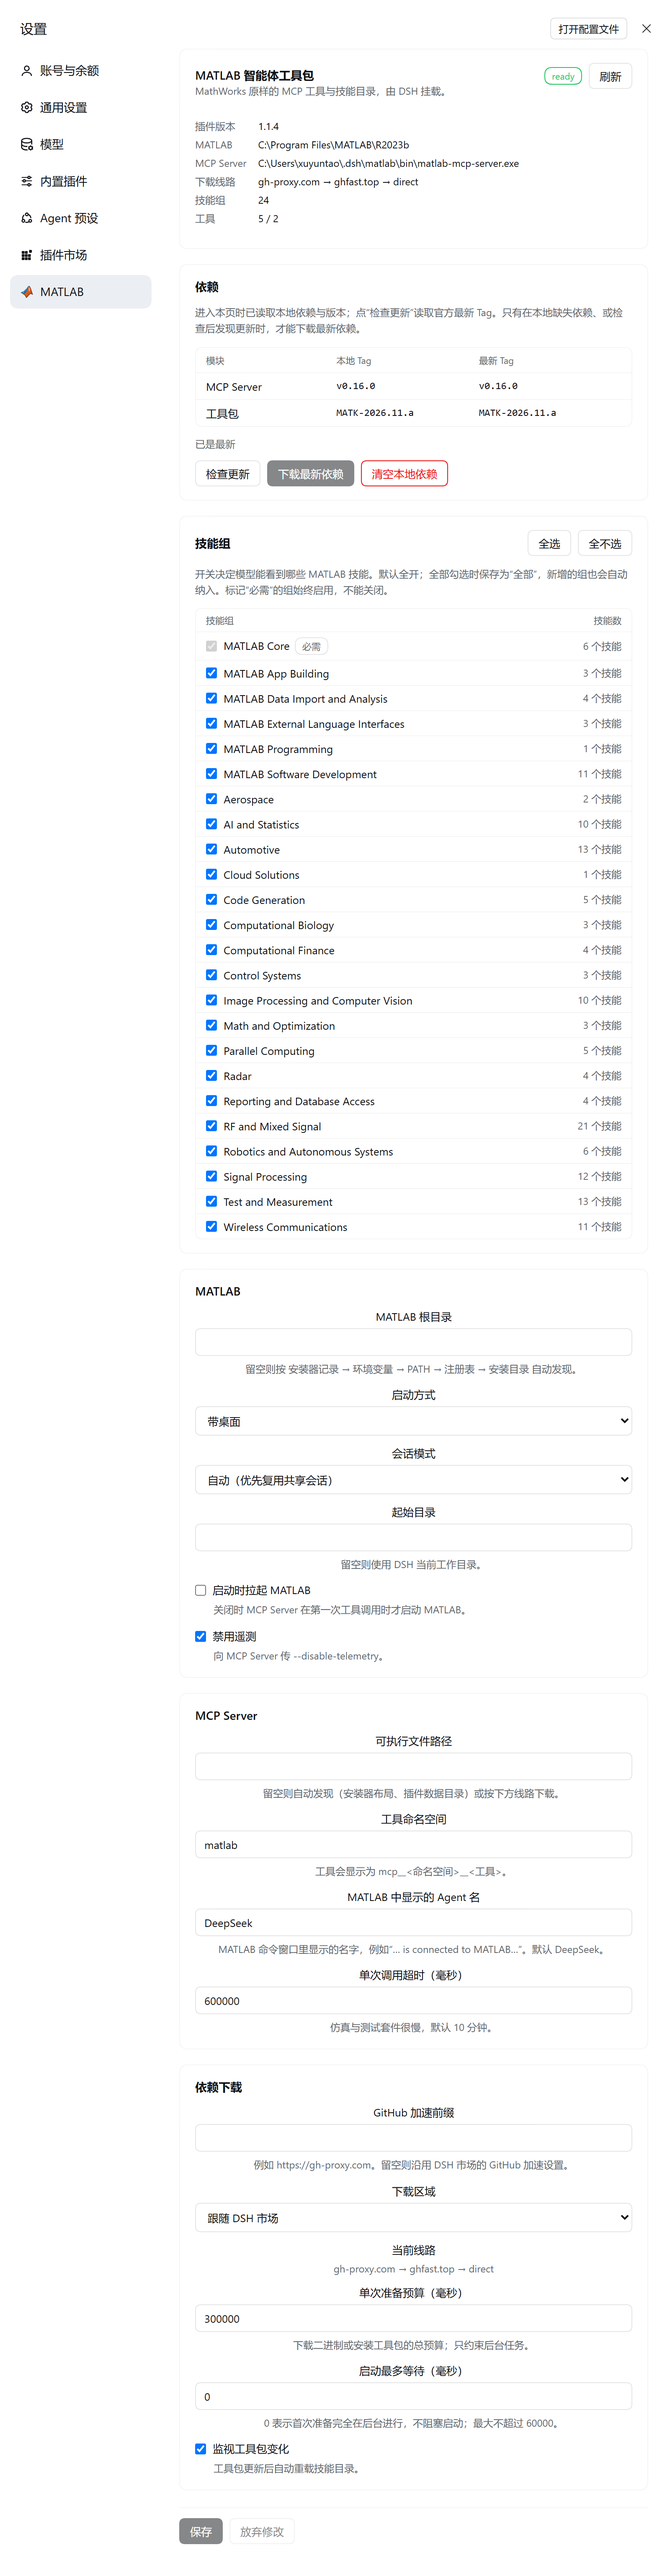
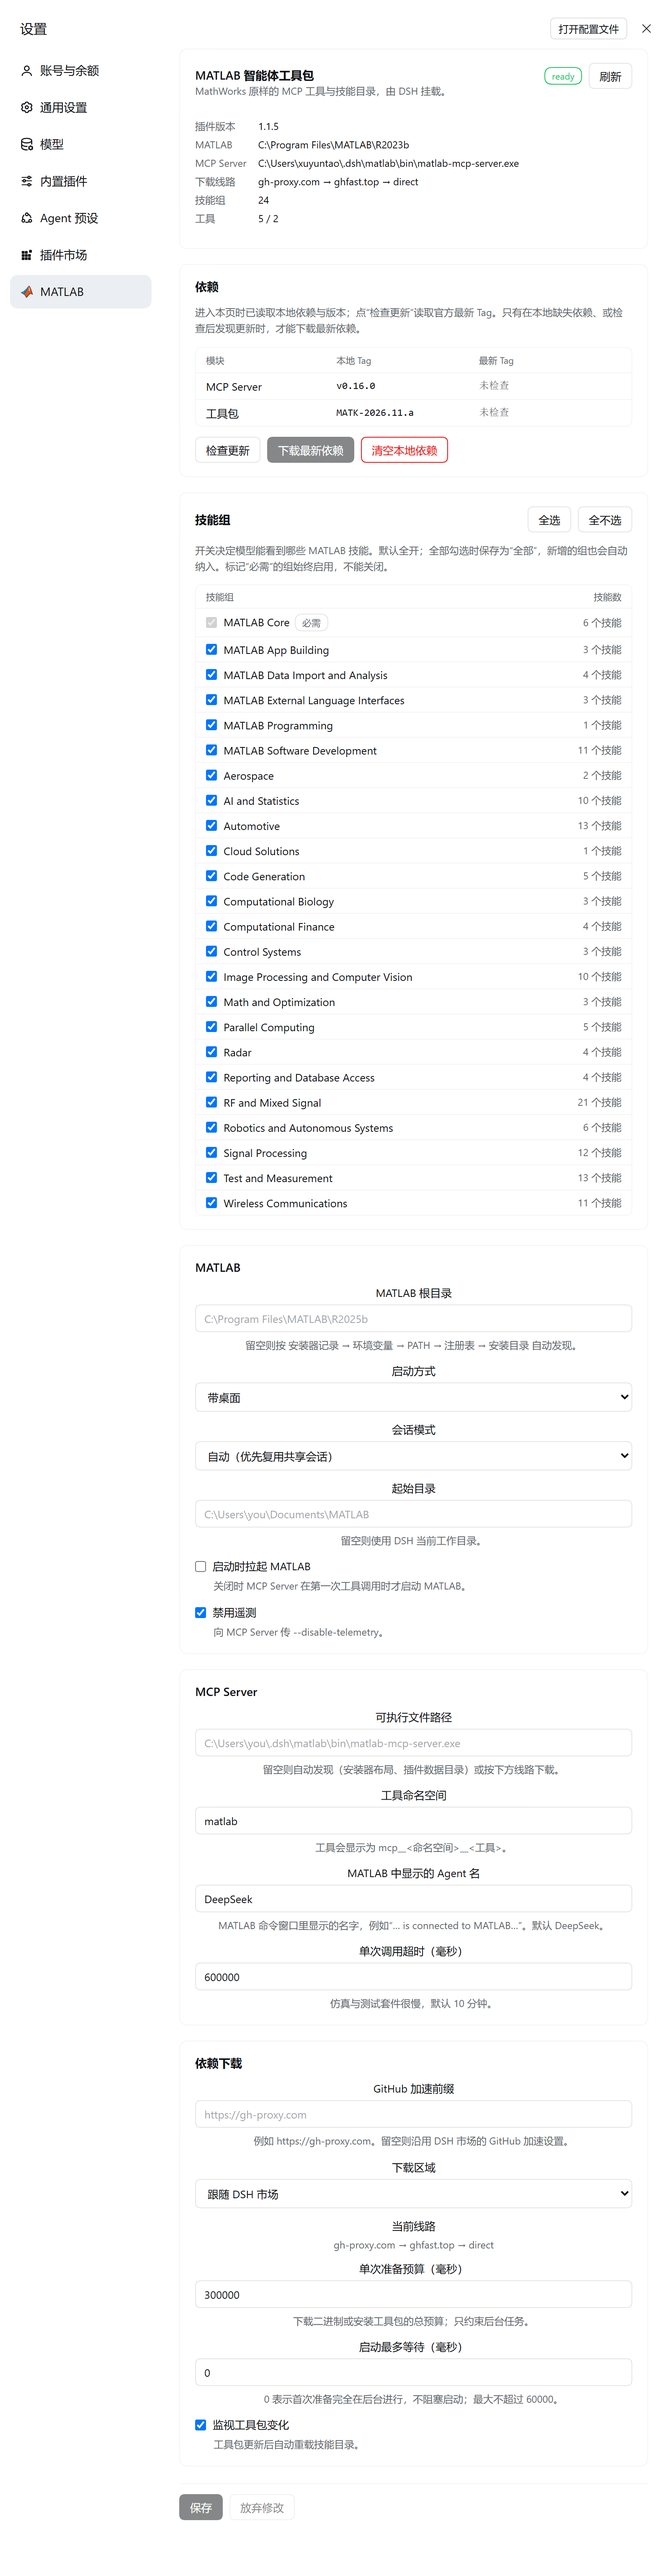
feat: show an example in every empty input
Each text and number box now carries a light placeholder with the shape of
the value it expects (a MATLAB install path, a working folder, the server
executable, the MCP namespace, the agent name, a call timeout, a GitHub
acceleration prefix, the transfer budget and the startup wait). Empty boxes
otherwise said nothing about what belonged in them.

Version 1.1.5; the screenshot is retaken so the store image shows them.

diff --git a/client/client.js b/client/client.js
@@ -254,6 +254,26 @@ window.__ModuleLoader__.load({
     }
 
     /**
+     * What an empty box expects.
+     *
+     * These are examples, not defaults: they are shown in the field's light
+     * placeholder colour and never written into the configuration. Paths and
+     * identifiers read the same in every language, so they live together here
+     * instead of being duplicated in both dictionaries.
+     */
+    const PLACEHOLDERS = {
+      matlabRoot: 'C:\\Program Files\\MATLAB\\R2025b',
+      initialWorkingFolder: 'C:\\Users\\you\\Documents\\MATLAB',
+      mcpServerPath: 'C:\\Users\\you\\.dsh\\matlab\\bin\\matlab-mcp-server.exe',
+      serverName: 'matlab',
+      agentName: 'DeepSeek',
+      toolCallTimeoutMs: '600000',
+      githubProxy: 'https://gh-proxy.com',
+      provisionTimeoutMs: '300000',
+      provisionWaitMs: '0',
+    }
+
+    /**
      * Resolve one route against the page's base URL.
      *
      * The Web GUI can be mounted under a prefix, so a leading slash would miss
@@ -303,6 +323,8 @@ window.__ModuleLoader__.load({
 .mp-row-block{display:flex;flex-direction:column;gap:6px}
 .mp-label{font-size:13px;color:var(--dsw-alias-label-primary)}
 .mp-input,.mp-select{width:100%;box-sizing:border-box;font:inherit;font-size:13px;padding:7px 10px;border-radius:8px;border:1px solid var(--dsw-alias-border-l2);background:var(--dsw-alias-bg-base);color:var(--dsw-alias-label-primary)}
+.mp-input::placeholder{color:var(--dsw-alias-label-tertiary,var(--dsw-alias-label-secondary));opacity:.72}
+.mp-input:focus::placeholder{opacity:.5}
 .mp-input:focus,.mp-select:focus{outline:2px solid var(--dsw-alias-brand-primary);outline-offset:1px}
 .mp-toggle{display:flex;align-items:flex-start;gap:8px;font-size:13px}
 .mp-toggle input{margin:3px 0 0}
@@ -392,12 +414,13 @@ window.__ModuleLoader__.load({
       })
     }
 
-    function NumberInput({ value, onChange, min }) {
+    function NumberInput({ value, onChange, min, placeholder }) {
       return h('input', {
         className: 'mp-input',
         type: 'number',
         min,
         value: String(value),
+        placeholder,
         onChange: event => onChange(event.target.value),
       })
     }
@@ -559,6 +582,7 @@ window.__ModuleLoader__.load({
           h(TextInput, {
             value: draft.matlabRoot,
             disabled: !state.editable,
+            placeholder: PLACEHOLDERS.matlabRoot,
             onChange: value => onDraft({ ...draft, matlabRoot: value }),
           })),
         h(Field, { label: t('displayMode') },
@@ -583,6 +607,7 @@ window.__ModuleLoader__.load({
         h(Field, { label: t('initialWorkingFolder'), hint: t('initialWorkingFolderHint') },
           h(TextInput, {
             value: draft.initialWorkingFolder,
+            placeholder: PLACEHOLDERS.initialWorkingFolder,
             onChange: value => onDraft({ ...draft, initialWorkingFolder: value }),
           })),
         h(Toggle, {
@@ -605,22 +630,26 @@ window.__ModuleLoader__.load({
         h(Field, { label: t('mcpServerPath'), hint: t('mcpServerPathHint') },
           h(TextInput, {
             value: draft.mcpServerPath,
+            placeholder: PLACEHOLDERS.mcpServerPath,
             onChange: value => onDraft({ ...draft, mcpServerPath: value }),
           })),
         h(Field, { label: t('serverName'), hint: t('serverNameHint') },
           h(TextInput, {
             value: draft.serverName,
+            placeholder: PLACEHOLDERS.serverName,
             onChange: value => onDraft({ ...draft, serverName: value }),
           })),
         h(Field, { label: t('agentName'), hint: t('agentNameHint') },
           h(TextInput, {
             value: draft.agentName,
+            placeholder: PLACEHOLDERS.agentName,
             onChange: value => onDraft({ ...draft, agentName: value }),
           })),
         h(Field, { label: t('callTimeout'), hint: t('callTimeoutHint') },
           h(NumberInput, {
             value: draft.toolCallTimeoutMs,
             min: 1000,
+            placeholder: PLACEHOLDERS.toolCallTimeoutMs,
             onChange: value => onDraft({ ...draft, toolCallTimeoutMs: value }),
           })))
     }
@@ -632,6 +661,7 @@ window.__ModuleLoader__.load({
         h(Field, { label: t('githubProxy'), hint: t('githubProxyHint') },
           h(TextInput, {
             value: draft.githubProxy,
+            placeholder: PLACEHOLDERS.githubProxy,
             onChange: value => onDraft({ ...draft, githubProxy: value }),
           })),
         h(Field, { label: t('region') },
@@ -650,12 +680,14 @@ window.__ModuleLoader__.load({
           h(NumberInput, {
             value: draft.provisionTimeoutMs,
             min: 10000,
+            placeholder: PLACEHOLDERS.provisionTimeoutMs,
             onChange: value => onDraft({ ...draft, provisionTimeoutMs: value }),
           })),
         h(Field, { label: t('wait'), hint: t('waitHint') },
           h(NumberInput, {
             value: draft.provisionWaitMs,
             min: 0,
+            placeholder: PLACEHOLDERS.provisionWaitMs,
             onChange: value => onDraft({ ...draft, provisionWaitMs: value }),
           })),
         h(Toggle, {

diff --git a/DESIGN.md b/DESIGN.md
@@ -209,7 +209,7 @@ Cordis 的 `Fiber._execute` 会校验插件激活的**返回值**：函数算 di
 
 依赖装好之后不会自己变新，而“每次启动都检查”又会把网络探测塞回启动路径。所以只有**本地检查**是自动的：进入设置页读的就是激活时已经解析好的状态，不额外联网。对官方的检查是**用户发起**的动作：点“检查更新”才做两次很小的只读探测，一个字节的业务数据都不下载。
 
-卡片是一张三列表（模块 / 本地 Tag / 最新 Tag）：本地列来自 `--version` 里的 `vX.Y.Z` 与安装目录里 `.dsh-matlab-release.json` 记的 Tag（旧版 `git clone` 的副本没有这个文件，显示“未知”而不是编一个版本）；产物确实不存在才写“未安装”。首版把“还没比较”直接渲染成“未安装”，让一个已经挂载了 24 组技能的工具包看起来缺失，这是必须避免的误报：状态投影要么来自磁盘事实，要么明确说“尚未检查”。1.1.4 起同一张卡片取代了原来的“更新依赖”和“维护”两张卡，并给出三个动作：
+卡片是一张三列表（模块 / 本地 Tag / 最新 Tag）：本地列来自 `--version` 里的 `vX.Y.Z` 与安装目录里 `.dsh-matlab-release.json` 记的 Tag（旧版 `git clone` 的副本没有这个文件，显示“未知”而不是编一个版本）；产物确实不存在才写“未安装”。首版把“还没比较”直接渲染成“未安装”，让一个已经挂载了 24 组技能的工具包看起来缺失，这是必须避免的误报：状态投影要么来自磁盘事实，要么明确说“尚未检查”。1.1.5 起同一张卡片取代了原来的“更新依赖”和“维护”两张卡，并给出三个动作：
 
 - **检查更新**：只读探测。MCP Server 与工具包都看 `releases/latest`——与安装时 `releases/latest/download/…` 指向同一个 release；某条线路拒绝或限流 `api.github.com` 时，退到发布页本身（`og:url` 里的 tag 就是 `releases/latest` 指向的那个），所以限流不会让检查整体失败。最新列**即使与本地相同也写出官方 Tag**：用户问的是“官方现在是哪一版”，不是“要不要更新”。
 - **下载最新依赖**：只在两种情况下可点——本地缺少任一产物，或检查后发现官方 Tag 与本地不同。它**不复用**磁盘上的旧副本：先 dispose 正在跑的 MCP 桥与技能目录，删掉插件自己的两份产物，再走与首次安装相同的后台路径重新下载并挂载（`kind: install`）。这样按钮承诺的“最新”是确定的，而不是“旧的 + 补丁”。

diff --git a/docs/STORE.md b/docs/STORE.md
@@ -20,7 +20,7 @@ description:
 说明：
 
 - 只有 `description.en` 是必填；`zh` 已有，保持同步。
-- 描述里的每一句都对得上代码：插件不实现 MATLAB 能力（只挂载 MathWorks 的 MCP Server 与技能目录）；`autoProvision` 默认 `true`；`disableTelemetry` 默认 `true`（= 遥测关闭），所以文案写“除非设置 disableTelemetry，否则遥测保持开启”。这里不再出现“克隆工具包”，因为 1.1.4 起改为安装最新 Release。
+- 描述里的每一句都对得上代码：插件不实现 MATLAB 能力（只挂载 MathWorks 的 MCP Server 与技能目录）；`autoProvision` 默认 `true`；`disableTelemetry` 默认 `true`（= 遥测关闭），所以文案写“除非设置 disableTelemetry，否则遥测保持开启”。这里不再出现“克隆工具包”，因为 1.1.5 起改为安装最新 Release。
 - 不加 `icon:`：商店回退到作者头像，`icon.svg` 仍是插件自己的图标。
 - 不加 `tarball:`：本包未发布 npm，源码安装即可（`dsh.bundle` 已声明）。
 - 不加 `npm:`：没有 npm 包，这一项也不允许手写。
@@ -30,7 +30,7 @@ description:
 商店的详情页截图不从上面那个 YAML 里写，而是读插件仓库自己的 `screenshots.json`：
 
 - `screenshots.json` → `["assets/settings.png"]`
-- `assets/settings.png` → **设置 → MATLAB 整页长截图**（1600 × 6144，含带插件版本号的状态卡、“依赖”三列表与三个按键、全部 24 个技能组，以及固定在底部的保存条）
+- `assets/settings.png` → **设置 → MATLAB 整页长截图**（1600 × 6088，含带插件版本号的状态卡、“依赖”三列表与三个按键、全部 24 个技能组、带示例提示的输入框，以及固定在底部的保存条）
 
 想换图只需替换这两个文件再推本仓库，不用到商店仓库开 PR，下一次夜间构建自动生效。
 
